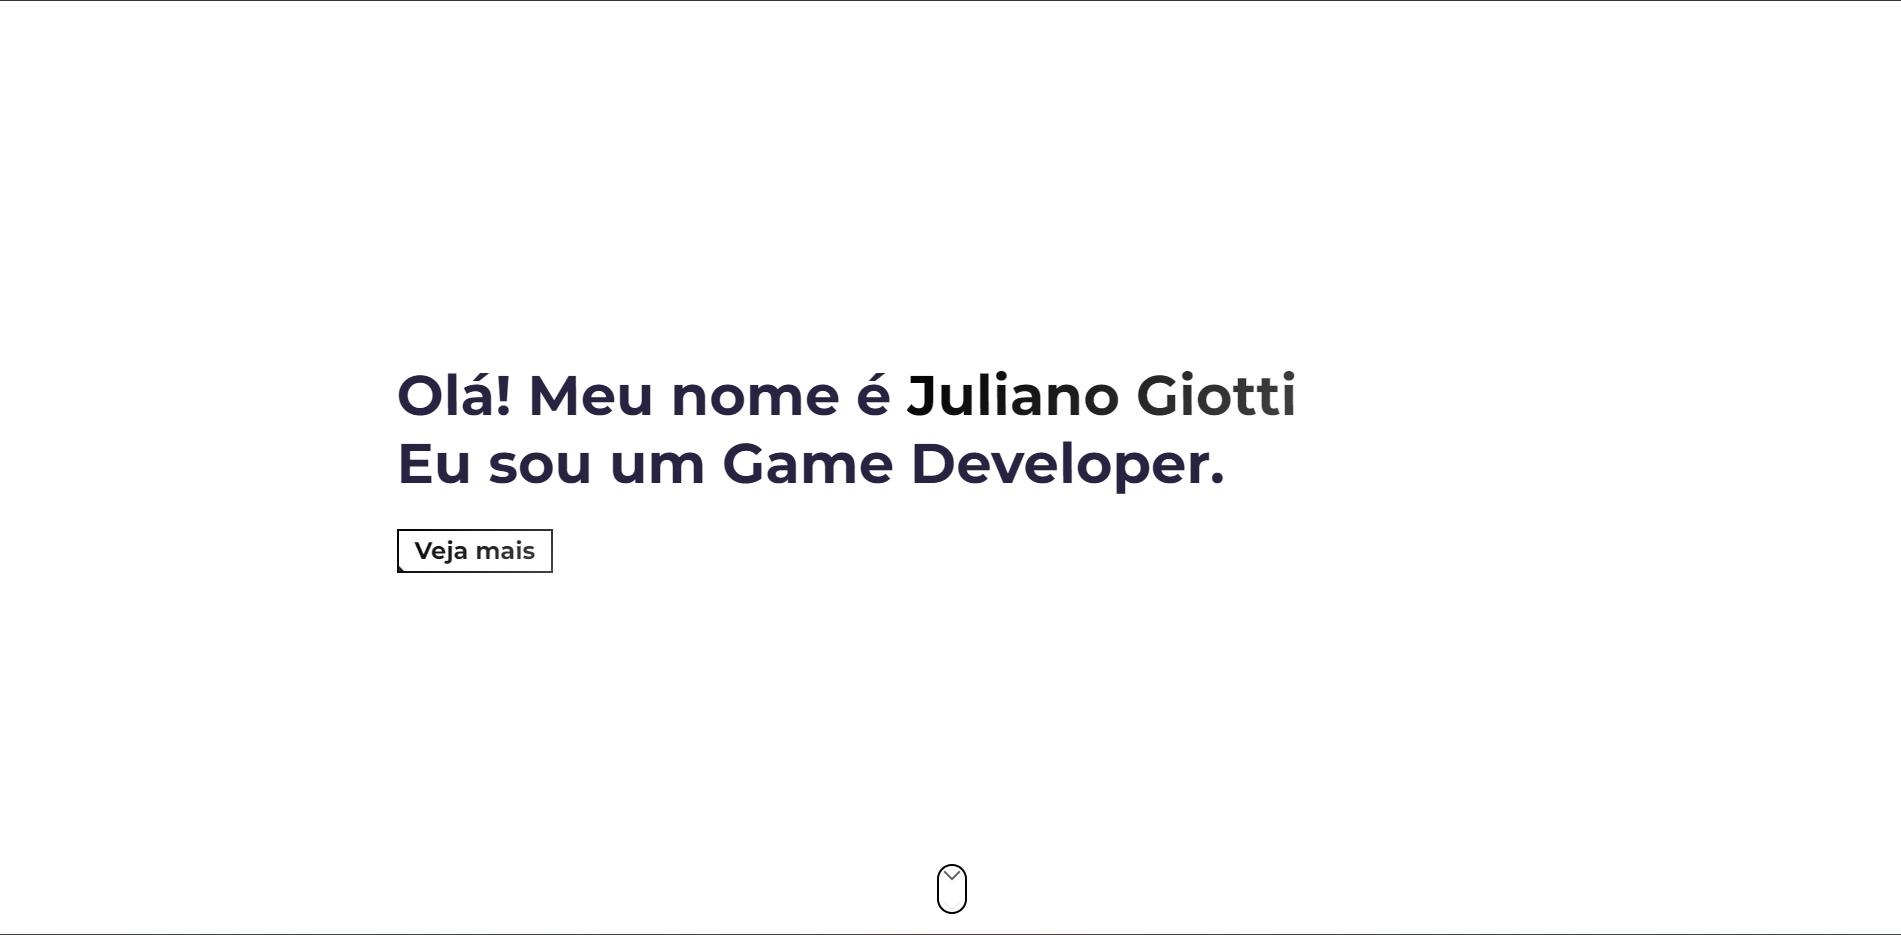
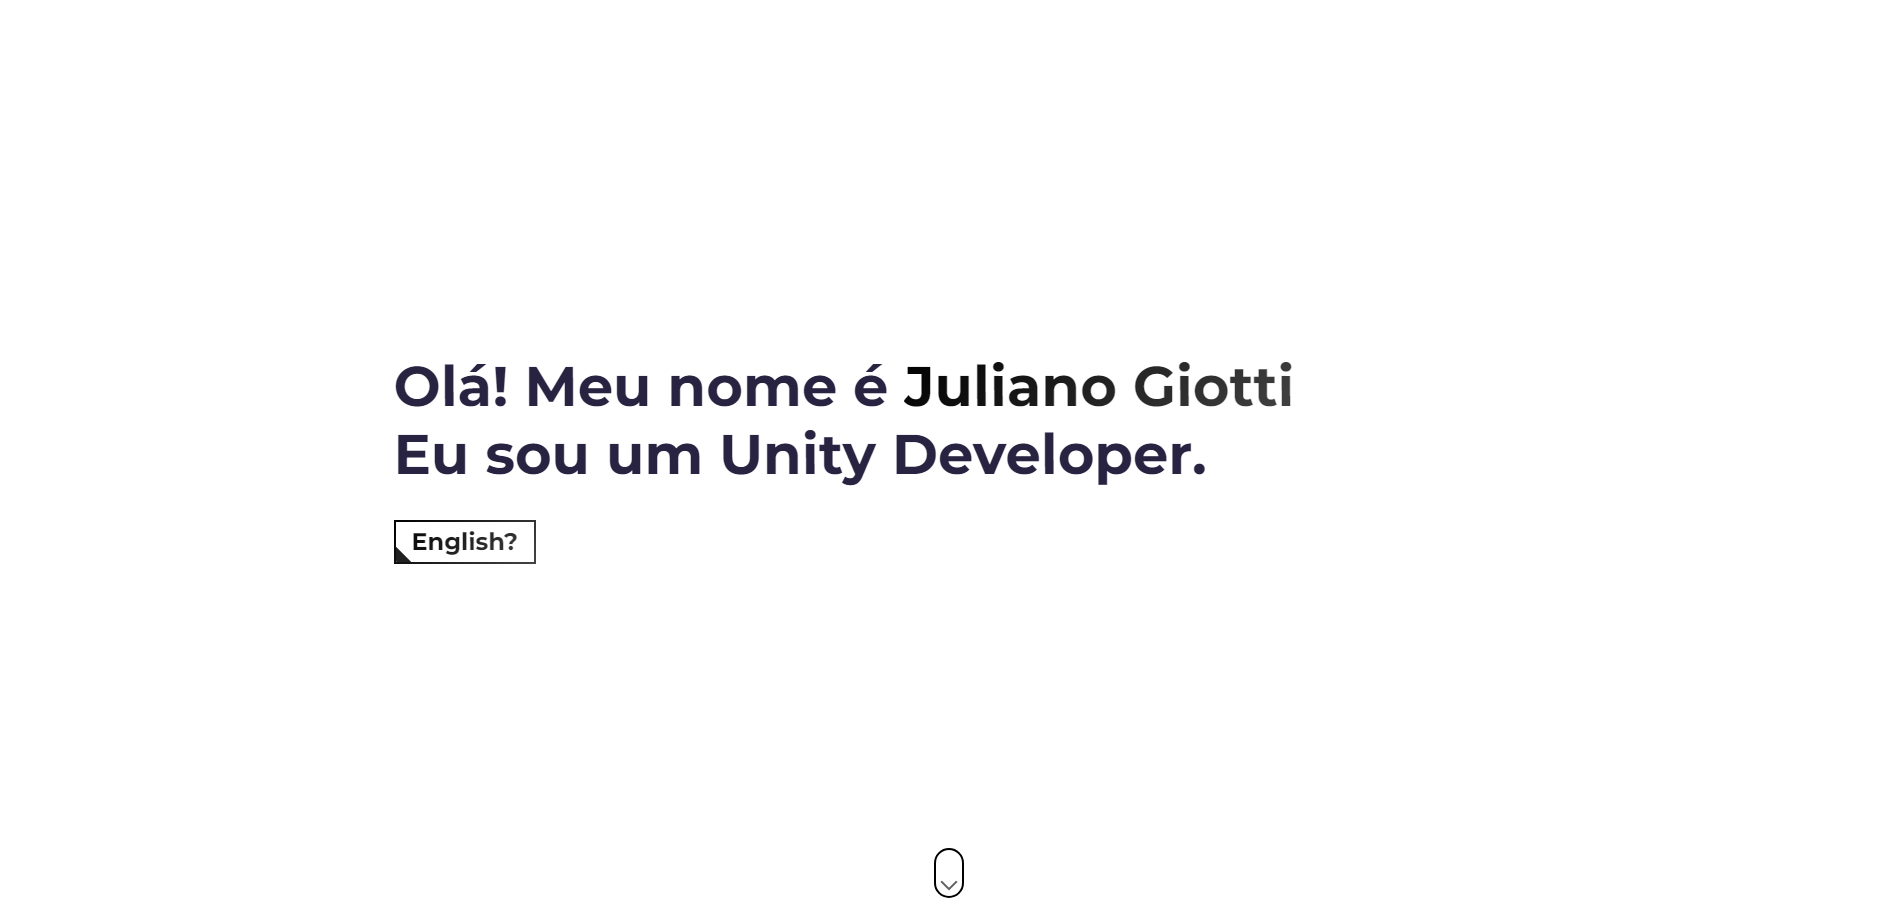
Changed Preview Img

Changed region(s): [[0.1866, 0.3982, 0.6842, 0.5208], [0.2177, 0.5514, 0.311, 0.6433], [0.4976, 0.919, 0.5287, 0.9803]]

diff --git a/indexen.html b/indexen.html
@@ -31,14 +31,14 @@
   <meta property="og:url" content="https://jugtt.github.io/Portfolio/" />
   <meta property="og:title" content="Juliano Giotti | Unity Developer EN" />
   <meta property="og:description" content="Juliano Giotti Portfolio" />
-  <meta property="og:image" content="https://jugtt.github.io/Portfolio/assets/preview.png" />
+  <meta property="og:image" content="https://jugtt.github.io/Portfolio/assets/previewEN.png" />
 
   <!-- Twitter -->
   <meta property="twitter:card" content="summary_large_image" />
   <meta property="twitter:url" content="https://jugtt.github.io/Portfolio/" />
   <meta property="twitter:title" content="Juliano Giotti | Unity Developer" />
   <meta property="twitter:description" content="Juliano Giotti Portfolio" />
-  <meta property="twitter:image" content="https://jugtt.github.io/Portfolio/assets/preview.png" />
+  <meta property="twitter:image" content="https://jugtt.github.io/Portfolio/assets/previewEN.png" />
 
   <!-- link tags -->
   <link rel="preload" as="style" href="./css/main.css" />
@@ -356,6 +356,6 @@
 
 <style>
   .a {
-    content: url("./assets/preview.png");
+    content: url("./assets/previewEN.png");
   }
 </style>
